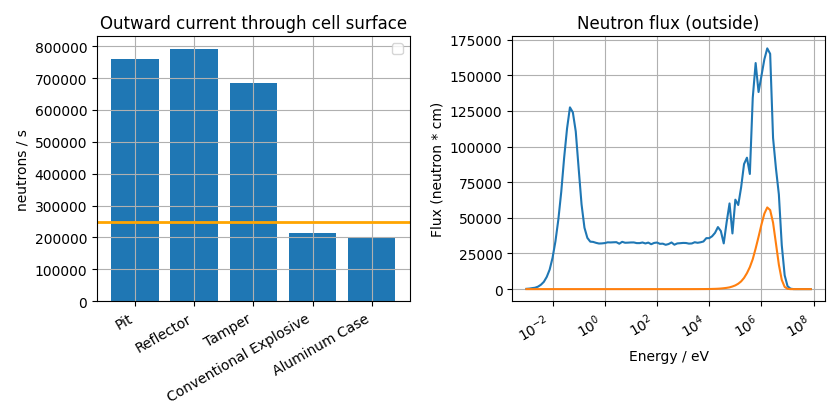
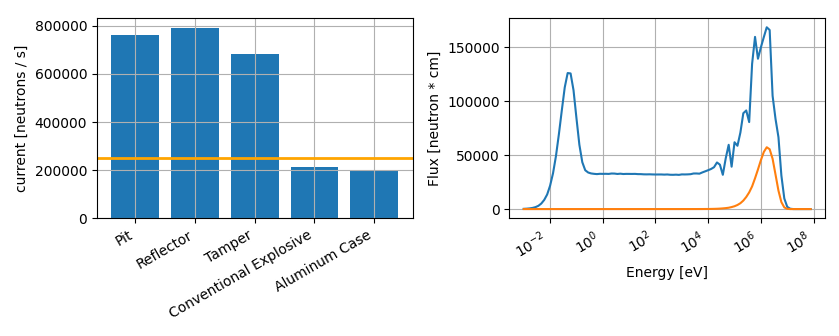
Update plot aspect ratio and labels

diff --git a/analysis-wgpu.py b/analysis-wgpu.py
@@ -13,7 +13,7 @@ import openmc
 
 import helper
 
-basepath = 'cluster-results/fetter-20210715-run'
+basepath = 'cluster-results/fetter-20210728-100k'
 if len(sys.argv) == 2:
     basepath = sys.argv[1]
 
@@ -321,7 +321,7 @@ print(ratedf[['type', 'geometry', 'age', 'k-combined', 'keff', 'fissionkeff', 'M
 
 factor = 0.7
 fig, ax = plt.subplots(nrows = 1, ncols = 2,
-                       figsize=(12 * factor, 6 * factor), squeeze = False)
+                       figsize=(12 * factor, 4.8 * factor), squeeze = False)
 
 currentdfsel = currentdf[(currentdf['age'] == 0) & (currentdf['type'] == 'fixed-source')]
 tempdf = currentdfsel.groupby(['surface', 'cellfrom']).sum()
@@ -334,11 +334,10 @@ surfaces = surfaces[1:-1]
 meanvalues = meanvalues[1:-1]
 
 ax[0][0].bar(surfaces, meanvalues * nps)
-ax[0][0].title.set_text("Outward current through cell surface")
-ax[0][0].axes.set_ylabel("neutrons / s")
+# ax[0][0].title.set_text("Outward current through cell surface")
+ax[0][0].axes.set_ylabel("current [neutrons / s]")
 ax[0][0].axhline(nps, color = "orange", linewidth = 2)
 # ax[0][0].axes.set_xlabel("from Cell")
-ax[0][0].legend()
 ax[0][0].grid()
 fig.autofmt_xdate()
 
@@ -361,9 +360,9 @@ ax[0][1].plot(xvalues, plotvalues)
 ax[0][1].plot(xvalues, sourcevalues)
 ax[0][1].set_xscale("log")
 # ax[0][1].set_yscale("log")
-ax[0][1].axes.set_xlabel("Energy / eV")
-ax[0][1].axes.set_ylabel("Flux (neutron * cm)")
-ax[0][1].title.set_text("Neutron flux (outside)")
+ax[0][1].axes.set_xlabel("Energy [eV]")
+ax[0][1].axes.set_ylabel("Flux [neutron * cm]")
+# ax[0][1].title.set_text("Neutron flux (outside)")
 ax[0][1].grid()    
 
 fig.tight_layout()
